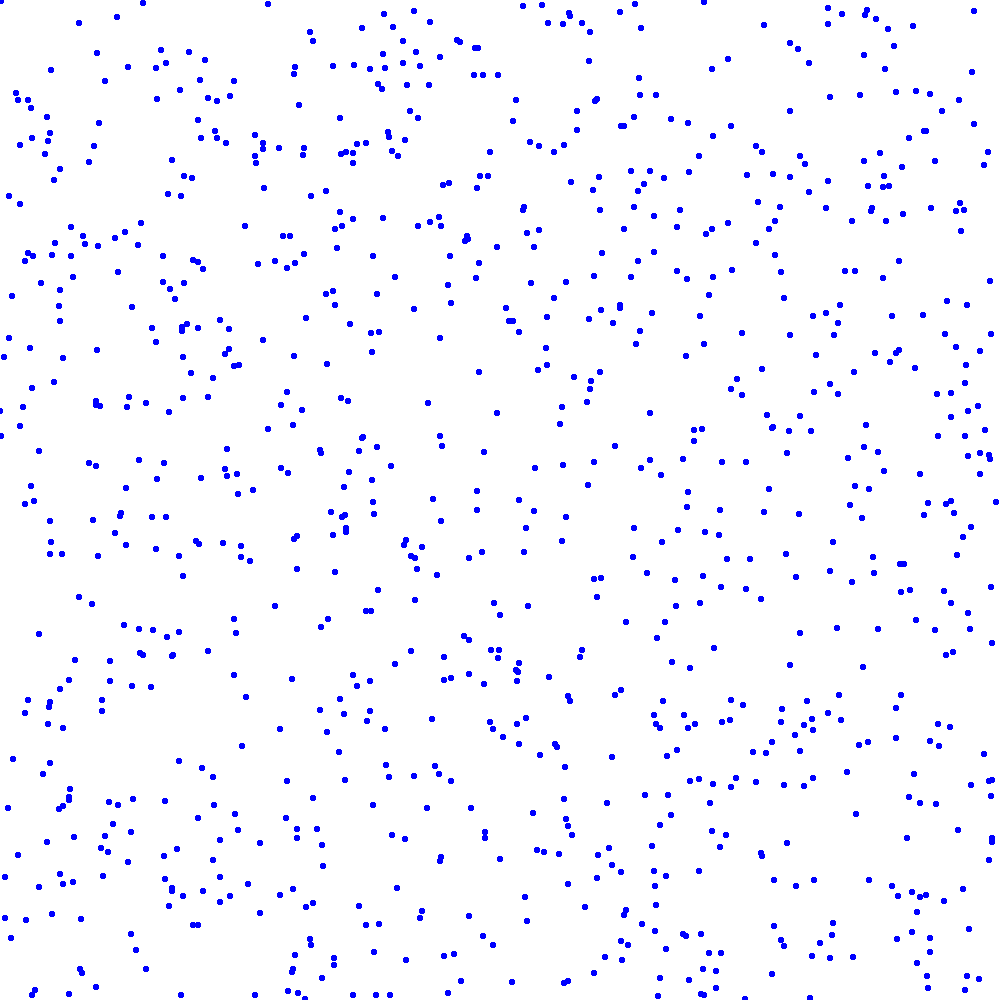
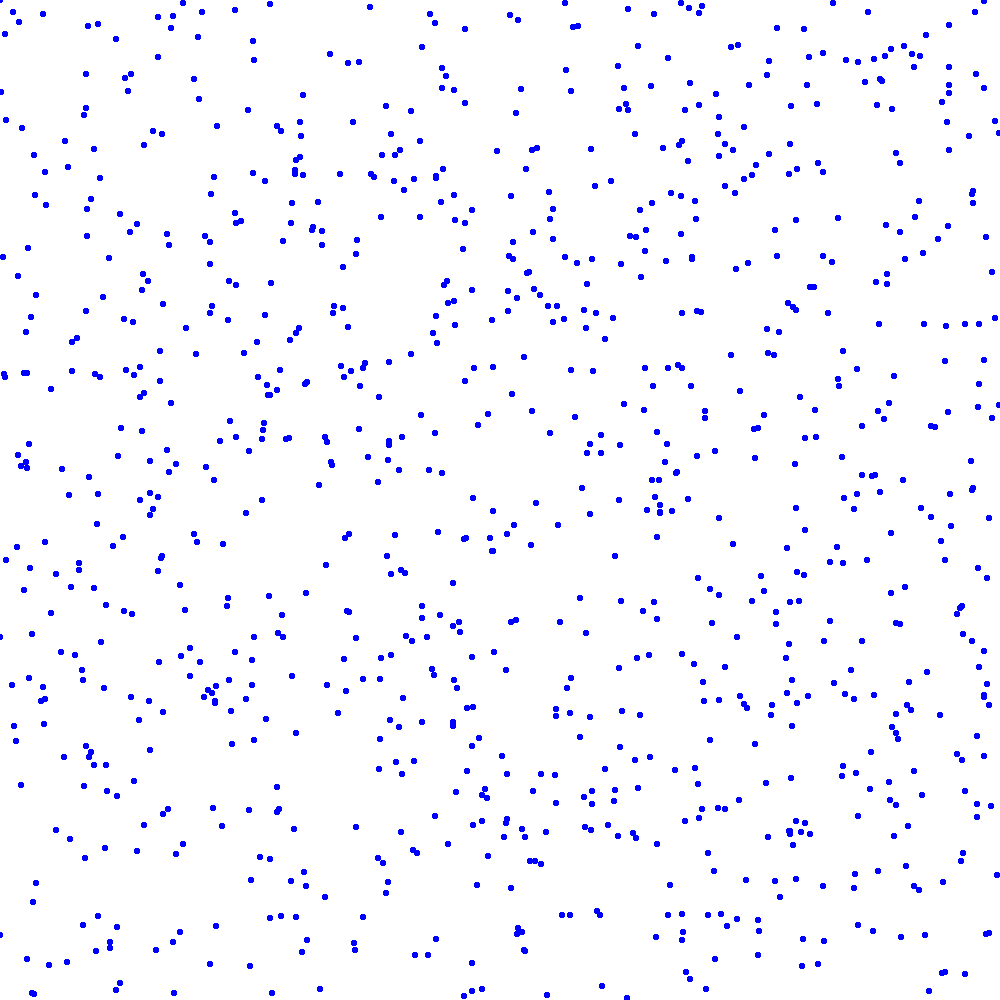
Classification Testing
TanH and RelU functions seem to be broken

diff --git a/ClassificationApp/Program.cs b/ClassificationApp/Program.cs
@@ -3,6 +3,8 @@ using Michiru.Neural;
 using SkiaSharp;
 using System;
 using System.IO;
+using ZeroFormatter;
+using Newtonsoft.Json;
 
 namespace ClassificationApp
 {
@@ -12,29 +14,77 @@ namespace ClassificationApp
 
 		static void Main(string[] args)
 		{
-			(ChiruMatrix trainX, ChiruMatrix trainY) = GenerateData(10000);
+			/*(ChiruMatrix trainX, ChiruMatrix trainY) = GenerateData(10000);
+			File.WriteAllText("X.json", trainX.ToJSON());
+			File.WriteAllText("Y.json", trainY.ToJSON());*/
+			/*var trainX = ChiruMatrix.FromJSON(File.ReadAllText("X.json"));
+			var trainY = ChiruMatrix.FromJSON(File.ReadAllText("Y.json"));
 			SKBitmap bitmap = new SKBitmap(SIZE, SIZE);
 			SKCanvas canvas = new SKCanvas(bitmap);
 			DrawData(trainX, trainY, canvas);
 			Save(bitmap, "train.png");
 			var activations = new ActivationFunction[]
 			{
-				ActivationFunction.Sigmoid,
+				ActivationFunction.TanH,
+				ActivationFunction.TanH,
+				ActivationFunction.TanH,
+				ActivationFunction.Sigmoid
+			};
+			ChiruMath.PARALLEL = false;
+			var lastCost = double.PositiveInfinity;
+			//var parameters = Parameters.FromJSON(File.ReadAllText("output.json"));
+			var parameters = DeepNeuralNetwork.Model(trainX, trainY, new int[] { 5, 2 }, activations, 0.012, 10000, null, (i, c) =>
+			{
+				if (lastCost < c)
+					Console.WriteLine("Learning Rate might be too high");
+				lastCost = c;
+				if(i % (10000 * .1) == 0)
+					Console.WriteLine($"[{i}] : {c}");
+			});
+			File.WriteAllText("output2.json", parameters.ToJSON());
+			var pY = DeepNeuralNetwork.Predict(parameters, trainX, activations);
+			bitmap = new SKBitmap(SIZE, SIZE);
+			canvas = new SKCanvas(bitmap);
+			DrawData(trainX, pY, canvas);
+			Save(bitmap, "predict.png");*/
+			var trainX = new double[,]
+			{
+				{ 1 , 2 , 3 , 4 , 5 , 6 , 7 , 8 , 9 , 10 , -1 , -2 , -3 , -4 , -5 , -6 , -7 , -8 , -9 , -10 },
+			}.AsMatrix();
+			var trainY = new double[,]
+			{
+				{ 1 , 1 , 1 , 1 , 1 , 1 , 1 , 1 , 1 , 1 , 0 , 0 , 0 , 0 , 0 , 0 , 0 , 0 , 0 , 0 },
+			}.AsMatrix();
+
+			var activations = new ActivationFunction[]
+			{
 				ActivationFunction.Sigmoid,
 				ActivationFunction.Sigmoid,
 				ActivationFunction.Sigmoid
 			};
 			ChiruMath.PARALLEL = false;
-			var parameters = DeepNeuralNetwork.Model(trainX, trainY, new int[] { 5, 2 }, activations, 0.001, 10000, null, (i, c) =>
+			var lastCost = double.PositiveInfinity;
+			//var parameters = Parameters.FromJSON(File.ReadAllText("output.json"));
+			var parameters = DeepNeuralNetwork.Model(trainX, trainY, new int[] { 2 }, activations, 0.012, 10000, null, (i, c) =>
 			{
-				if(i % (10000 * .1) == 0)
+				if (lastCost < c)
+					Console.WriteLine("Learning Rate might be too high");
+				lastCost = c;
+				if (i % (10000 * .1) == 0)
 					Console.WriteLine($"[{i}] : {c}");
 			});
-			var pY = DeepNeuralNetwork.Predict(parameters, trainX, activations);
-			bitmap = new SKBitmap(SIZE, SIZE);
-			canvas = new SKCanvas(bitmap);
-			DrawData(trainX, pY, canvas);
-			Save(bitmap, "predict.png");
+			double[,] x = new double[1,2000];
+			double[,] y = new double[1,2000];
+			for(int i = -1000; i< 1000; i++)
+			{
+				x[0, i + 1000] = i;
+				y[0, i + 1000] = (i < 0) ? 0 : 1;
+			}
+			var testX = x.AsMatrix();
+			var testY = y.AsMatrix();
+			Console.WriteLine(DeepNeuralNetwork.Predict(parameters, testX, activations).ErrorWith(testY));
+
+			Console.ReadLine();
 		}
 
 		static void Save(SKBitmap bitmap, string name)
@@ -46,9 +96,9 @@ namespace ClassificationApp
 			}
 		}
 
+		public static Random rand = new Random(1);
 		static (ChiruMatrix X, ChiruMatrix Y) GenerateData(int m)
 		{
-			Random rand = new Random();
 			double[,] X = new double[2, m], Y = new double[1, m];
 			for (int n = 0; n < 1000; n++)
 			{
@@ -56,14 +106,14 @@ namespace ClassificationApp
 				X[1, n] = rand.NextDouble();
 				if (X[0, n] >= 0.5)
 				{
-					if (X[1, n] >= 0.5)
+					if (X[1, n] <= 0.5)
 						Y[0, n] = 1;
 					else
 						Y[0, n] = 0;
 				}
 				else
 				{
-					if (X[1, n] >= 0.5)
+					if (X[1, n] <= 0.5)
 						Y[0, n] = 0;
 					else
 						Y[0, n] = 1;

diff --git a/Michiru/Utils/ImagePreProcessor.cs b/Michiru/Utils/ImagePreProcessor.cs
@@ -1,4 +1,4 @@
-using SkiaSharp;
+using SkiaSharp;
 using System;
 using System.Collections.Generic;
 using System.IO;
@@ -76,18 +76,18 @@ namespace Michiru.Utils
 			return (x.AsMatrix(), y.AsMatrix());
 		}
 
-		public static void Expand(double[] flatColors, Stream dest)
+		public static void Expand(ChiruMatrix flatColors, Stream dest)
 		{
-			var colors = new SKColor[flatColors.Length / 3];
+			var colors = new SKColor[flatColors.Height / 3];
 			int c = 0;
-			for (int i = 0; i < flatColors.Length; i += 3)
+			for (int i = 0; i < flatColors.Height; i += 3)
 			{
-				colors[c++] = new SKColor((byte)flatColors[i], (byte)flatColors[i + 1], (byte)flatColors[i + 2]);
+				colors[c++] = new SKColor((byte)flatColors[i, 0], (byte)flatColors[i + 1, 0], (byte)flatColors[i + 2, 0]);
 			}
 			var ctable = new SKColorTable(colors);
 			var img = new SKBitmap(new SKImageInfo(100, 100), ctable);
 			var image = SKImage.FromBitmap(img);
 			image.Encode().SaveTo(dest);
 		}
-    }
+	}
 }

diff --git a/ChiruApp/MainWindow.xaml.cs b/ChiruApp/MainWindow.xaml.cs
@@ -92,10 +92,7 @@ namespace ChiruApp
 			_hasData = true;
 			testingSetDisplay.ItemsSource = await UpdateDataDisplay(_testX, _testY, true);
 			UpdateButtons();
-<<<<<<< HEAD
-=======
 			dataSetShape.Content = _testX.Shape.ToString();
->>>>>>> 6cbe5af4361e7b2dc77ff2fd3fa209ff05ff6085
 		}
 
 		private (ChiruMatrix X, ChiruMatrix Y) LoadData(string xL, string yL)
@@ -351,15 +348,12 @@ namespace ChiruApp
 		{
 			var a = GetActivations();
 			_predictY = await Task.Run(() => DeepNeuralNetwork.Predict(_parameters, _testX, a));
-<<<<<<< HEAD
-=======
 			UpdatePredictStats();
 		}
 
 		private void UpdatePredictStats()
 		{
 			predictAccuracy.Content = _predictY.IsEmpty() ? "No Data" :  _predictY.ErrorWith(_testY).ToString();
->>>>>>> 6cbe5af4361e7b2dc77ff2fd3fa209ff05ff6085
 		}
 
 		private void AddLayer(object sender, RoutedEventArgs e)

diff --git a/Michiru/Neural/DeepNeuralNetwork.cs b/Michiru/Neural/DeepNeuralNetwork.cs
@@ -143,6 +143,7 @@ namespace Michiru.Neural
 			}
 			return parameters;
 		}
+
 		/// <summary>
 		/// Create a Network Model and train it
 		/// </summary>
@@ -195,6 +196,7 @@ namespace Michiru.Neural
 		/// <param name="X">Data set to make predictions based on</param>
 		/// <returns>Matrix of the resulting predictions</returns>
 		public static ChiruMatrix Predict(Parameters parameters, ChiruMatrix X, ActivationFunction[] activations) => ModelForward(X, parameters, activations).AL.Map(x => x > .5 ? 1 : 0);
+		public static ChiruMatrix Predict(Parameters parameters, ChiruMatrix X, ActivationFunction[] activations, Func<double, double> mapFunction) => ModelForward(X, parameters, activations).AL.Map(mapFunction);
 
 		public static double ComputeCost(ChiruMatrix AL, ChiruMatrix Y)
 		{

diff --git a/Michiru/Calculation/ChiruMatrix.cs b/Michiru/Calculation/ChiruMatrix.cs
@@ -6,11 +6,13 @@ using System.Linq.Expressions;
 using System.Text;
 using Michiru.Calculation;
 using Newtonsoft.Json;
+using ZeroFormatter;
 
 namespace Michiru.Calculation
 {
 	public struct ChiruMatrix
 	{
+		[Index(0)]
 		public double[,] Values { get; }
 		[JsonIgnore]
 		public int Height => Values.GetLength(0);
@@ -23,6 +25,7 @@ namespace Michiru.Calculation
 
 		[JsonIgnore]
 		private static Random _RAND = new Random();
+		
 
 		public ChiruMatrix(double[,] values) => Values = values;
 

diff --git a/Michiru/Neural/Parameters.cs b/Michiru/Neural/Parameters.cs
@@ -3,13 +3,22 @@ using Newtonsoft.Json;
 using System;
 using System.Collections.Generic;
 using System.Text;
+using ZeroFormatter;
 
 namespace Michiru.Neural
 {
+	[ZeroFormattable]
     public class Parameters
     {
-		public ChiruMatrix[] W { get; set; }
-		public ChiruMatrix[] B { get; set; }
+		[Index(0)]
+		public virtual ChiruMatrix[] W { get; set; }
+		[Index(1)]
+		public virtual ChiruMatrix[] B { get; set; }
+
+		public Parameters()
+		{
+
+		}
 
 		public Parameters(int layers)
 		{
